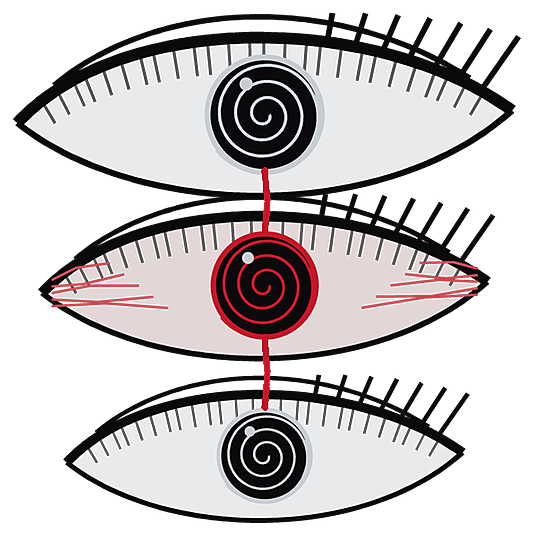
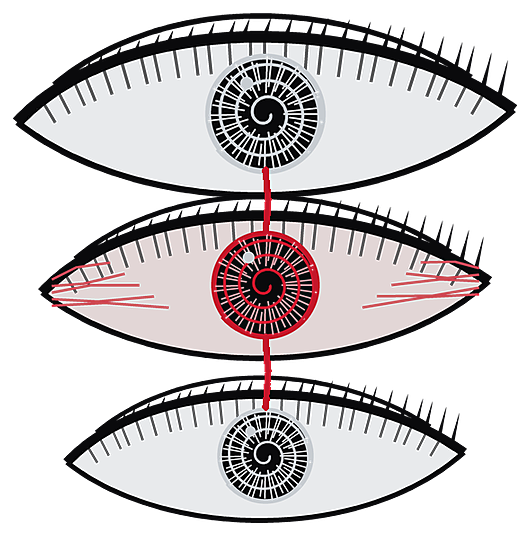
feat(media): Uzumaki-ink spiral effect, your own eye picture, a striated built-in eye; docs

diff --git a/bar/modules/ItoMediaFx.qml b/bar/modules/ItoMediaFx.qml
@@ -1,4 +1,6 @@
 import QtQuick
+import Quickshell
+import Quickshell.Io
 
 // What moves behind the media controls while something plays. One kind is chosen on the Effects page:
 //
@@ -21,6 +23,17 @@ Item {
   property real radius: height / 2
   property real speed: 1
   property url customSource: ""        // the user's own picture or GIF, for kind "custom"
+
+  // Your own eye: put eyes.png and eyes-red.png (the same 640 x 246 shape as the ones in ito-art/eyefx) in
+  // ~/.config/ito/eyefx/ and the Eye effect draws those instead of the built-in ones.
+  readonly property string userEyeDir: Quickshell.env("HOME") + "/.config/ito/eyefx/"
+  property bool hasUserEyes: false
+  FileView {
+    path: root.userEyeDir + "eyes.png"
+    printErrors: false
+    onLoaded: root.hasUserEyes = true
+    onLoadFailed: root.hasUserEyes = false
+  }
 
   property real surge: 0
   function pulse() { surgeAnim.restart() }
@@ -106,39 +119,42 @@ Item {
     }
 
     // ------------------------------------------------------------------ spiral
-    // Not a clean mathematical curve: the wobble is what tells this from a logo. A third, faint arm keeps
-    // it from ever quite settling into a simple two-arm pattern, and a few dark growths sit on the ink the
-    // way the curse marks skin in Uzumaki -- small, uneven, not decoration.
-    function paintSpiral(ctx, w, h) {
-      var cx = w / 2, cy = h / 2, R = Math.max(w, h) * 0.62
-      var spin = root.t * 0.9 + root.surge * 3
-      var sx = w / Math.max(w, h) * 1.6
-      var arms = [
-        { off: 0, width: 3.0, col: rgba(root.blood, 0.8 * root.shown) },
-        { off: Math.PI, width: 2.2, col: rgba(root.bone, 0.34 * root.shown) },
-        { off: Math.PI * 0.55, width: 1.2, col: rgba(root.bone, 0.16 * root.shown) }
-      ]
-      for (var arm = 0; arm < arms.length; arm++) {
-        ctx.beginPath()
-        var growths = []
-        for (var i = 0; i <= 170; i++) {
-          var u = i / 170
-          var wob = Math.sin(u * 19 + arm * 3 + root.t * 1.3) * (1 - u) * 0.05
-          var a = spin + arms[arm].off + u * 4.4 * Math.PI + wob
-          var r = u * R * (1 + 0.02 * Math.sin(u * 11 - root.t))
-          var x = cx + Math.cos(a) * r * sx
-          var y = cy + Math.sin(a) * r * 0.9
-          if (i === 0) ctx.moveTo(x, y); else ctx.lineTo(x, y)
-          if (arm === 0 && i > 20 && i % 27 === 0) growths.push([x, y, 1.2 + hash(i + arm) * 1.6])
-        }
-        ctx.lineWidth = arms[arm].width + root.surge * 1.2
-        ctx.strokeStyle = arms[arm].col
-        ctx.stroke()
-        for (var gg = 0; gg < growths.length; gg++) {
-          ctx.beginPath(); ctx.arc(growths[gg][0], growths[gg][1], growths[gg][2], 0, Math.PI * 2)
-          ctx.fillStyle = rgba(root.blood, 0.55 * root.shown); ctx.fill()
-        }
+    // Uzumaki's swirl: one heavy ink line winding in tight, even rings, thin at the centre and swelling as it
+    // goes out, the way a pen leans into the stroke. Blood is a second arm that creeps out from the centre and
+    // stops part-way, as the curse does. Each arm is one filled ribbon (a single path), not hundreds of strokes,
+    // so it stays cheap while it turns.
+    function ribbon(ctx, cx, cy, R, sx, sy, spin, turns, uMax, widthOf, colour) {
+      var steps = 260, inner = []
+      ctx.beginPath()
+      for (var i = 0; i <= steps; i++) {
+        var u = i / steps * uMax
+        var a = spin + u * turns * 2 * Math.PI
+        var r = u * R
+        var hw = widthOf(u) * 0.5
+        var cs = Math.cos(a), sn = Math.sin(a)
+        var xo = cx + cs * (r + hw) * sx, yo = cy + sn * (r + hw) * sy
+        if (i === 0) ctx.moveTo(xo, yo); else ctx.lineTo(xo, yo)
+        inner.push(cx + cs * Math.max(0, r - hw) * sx, cy + sn * Math.max(0, r - hw) * sy)
       }
+      for (var j = inner.length - 2; j >= 0; j -= 2) ctx.lineTo(inner[j], inner[j + 1])
+      ctx.closePath()
+      ctx.fillStyle = colour
+      ctx.fill()
+    }
+
+    function paintSpiral(ctx, w, h) {
+      var cx = w / 2, cy = h / 2, R = Math.max(w, h) * 0.66
+      var spin = root.t * 0.7 + root.surge * 3
+      var sx = w / Math.max(w, h) * 1.7, sy = 0.9
+      var swell = 1 + root.surge * 0.5
+      // the ink: thin at the middle, heavy outside, drawn to a point at its end
+      ribbon(ctx, cx, cy, R, sx, sy, spin, 6.5, 1.0,
+             function(u) { return (0.9 + 2.3 * Math.pow(u, 0.75)) * swell * (u > 0.94 ? (1 - u) / 0.06 : 1) },
+             rgba(root.bone, 0.8 * root.shown))
+      // the blood: the same turn, half a ring behind, only part of the way
+      ribbon(ctx, cx, cy, R, sx, sy, spin + Math.PI, 6.5, 0.7,
+             function(u) { return (1.1 + 1.4 * u) * swell * (u > 0.62 ? (0.7 - u) / 0.08 : 1) },
+             rgba(root.blood, 0.85 * root.shown))
     }
 
     // ------------------------------------------------------------------ eyes
@@ -171,6 +187,15 @@ Item {
     // of them turn bloodshot.
     readonly property url eyeArt: Qt.resolvedUrl("ito-art/eyefx/")
     readonly property url fogArt: Qt.resolvedUrl("ito-art/misc/fog.png")
+    readonly property url userEyeArt: "file://" + root.userEyeDir
+    Connections {
+      target: root
+      function onHasUserEyesChanged() {
+        if (!root.hasUserEyes) return
+        canvas.loadImage(canvas.userEyeArt + "eyes.png"); canvas.loadImage(canvas.userEyeArt + "eyes-red.png")
+        canvas.requestPaint()
+      }
+    }
     Component.onCompleted: {
       loadImage(eyeArt + "eyes.png"); loadImage(eyeArt + "eyes-red.png")
       loadImage(fogArt)
@@ -186,7 +211,8 @@ Item {
         var open = eyeOpen(seed, root.t)
         var look = saccade(seed, root.t) * gap * 0.03
         var red = root.surge > 0.25 && k % 2 === 0
-        var src = eyeArt + style + (red ? "-red.png" : ".png")
+        var name = style + (red ? "-red.png" : ".png")
+        var src = (root.hasUserEyes && isImageLoaded(userEyeArt + name)) ? userEyeArt + name : eyeArt + name
         if (!isImageLoaded(src)) continue
         ctx.save()
         ctx.globalAlpha = Math.min(1, 0.95 * root.shown)

diff --git a/scripts/eyeart.py b/scripts/eyeart.py
@@ -101,6 +101,12 @@ def watcher(width: int = 640, red: bool = False) -> Image.Image:
     r = H * 0.29
     d.ellipse((cx - r, cy - r, cx + r, cy + r), fill=ink)
     d.ellipse((cx - r, cy - r, cx + r, cy + r), outline=accent, width=lw)
+    # fine radial strokes across the iris, the way a pen would shade it
+    for i in range(44):
+        ang = i * 2 * math.pi / 44 + 0.03 * math.sin(i * 3.1)
+        r0, r1 = r * (0.3 + 0.05 * ((i * 7) % 5)), r * (0.86 + 0.1 * ((i * 3) % 4) / 3)
+        d.line([(cx + math.cos(ang) * r0, cy + math.sin(ang) * r0), (cx + math.cos(ang) * r1, cy + math.sin(ang) * r1)],
+               fill=(BLOOD if red else BONE) + (110,), width=max(1, lw // 3))
     pts = []
     a = 0.0
     while a < 3.4 * 2 * math.pi:
@@ -115,11 +121,13 @@ def watcher(width: int = 640, red: bool = False) -> Image.Image:
     d.line(low, fill=ink, width=lw + 2, joint="curve")
     crease = [(x, y - H * 0.1 * math.sin((i / 80) * math.pi)) for i, (x, y) in enumerate(top)]
     d.line(crease[8:-8], fill=ink, width=max(2, lw - 1), joint="curve")
-    for i in range(7):
-        t = 0.62 + 0.05 * i
+    for i in range(26):
+        t = 0.10 + 0.86 * i / 25
         px, py = top[round(t * 80)]
-        d.line([(px, py), (px + W * 0.02 * (i + 1) * 0.5, py - H * (0.14 + 0.02 * i))], fill=ink, width=max(2, lw - 1))
-
+        ln = H * (0.06 + 0.14 * (t ** 2.2))                       # longer towards the outer corner
+        dx, dy = W * 0.012 * (0.5 + t), -ln
+        w0 = max(2, lw * 0.9)
+        d.polygon([(px - w0 / 2, py), (px + w0 / 2, py), (px + dx, py + dy)], fill=ink)
     if red:
         for sx, sgn in ((left, 1), (right, -1)):
             for j in range(5):

diff --git a/docs/CUSTOMIZATION.md b/docs/CUSTOMIZATION.md
@@ -37,6 +37,13 @@ kept in `~/.config/ito/` (`marks/`, `effects/`); nothing you supply is modified.
 Every picture may be up to 25 MB and 8000 px on a side (the media effect: 8 MB and 2400 px); the panel says so if a
 file is refused.
 
+### Your own eye for the Eye effect
+
+The **Eye** media effect draws the eye in `bar/modules/ito-art/eyefx/`. To use a picture of your own instead, put two files in
+`~/.config/ito/eyefx/`: `eyes.png` (open) and `eyes-red.png` (bloodshot), both about 640 x 246 px with a transparent background.
+The shell picks them up at once; delete them to go back to the built-in eye. The built-in one is generated by
+`scripts/gen-eyefx.py` from `scripts/eyeart.py`.
+
 ## Readings
 
 *Icons -> Readings* sets how numbers read everywhere: Percent (`RAM 68%`), Amount (`RAM 17/32G`, `DISK 210/930G`, used out of total; loudness,

diff --git a/CHANGELOG.md b/CHANGELOG.md
@@ -23,6 +23,10 @@
 - Labels over the bar follow the theme; "Tint labels with the accent" brings the accent back.
 - Removed old sheet-derived icons that carried text and were not used by the shell. The "Eyes" decoration and effect now use
   original artwork committed to the repository instead of untracked third-party art.
+- The **Spiral** media effect is redrawn as Uzumaki ink: one heavy line in tight, even rings that swells as it goes out, with a blood
+  arm creeping from the centre. The **Eye** effect can use your own picture (`~/.config/ito/eyefx/`), and the built-in eye has a striated
+  iris and heavier lashes.
+- Seal decorations lie across the bar, above and below the seal, on a vertical bar (they used to shrink to a sliver).
 - The Control Centre footer credits the author with a link.
 
 **Compatibility**
